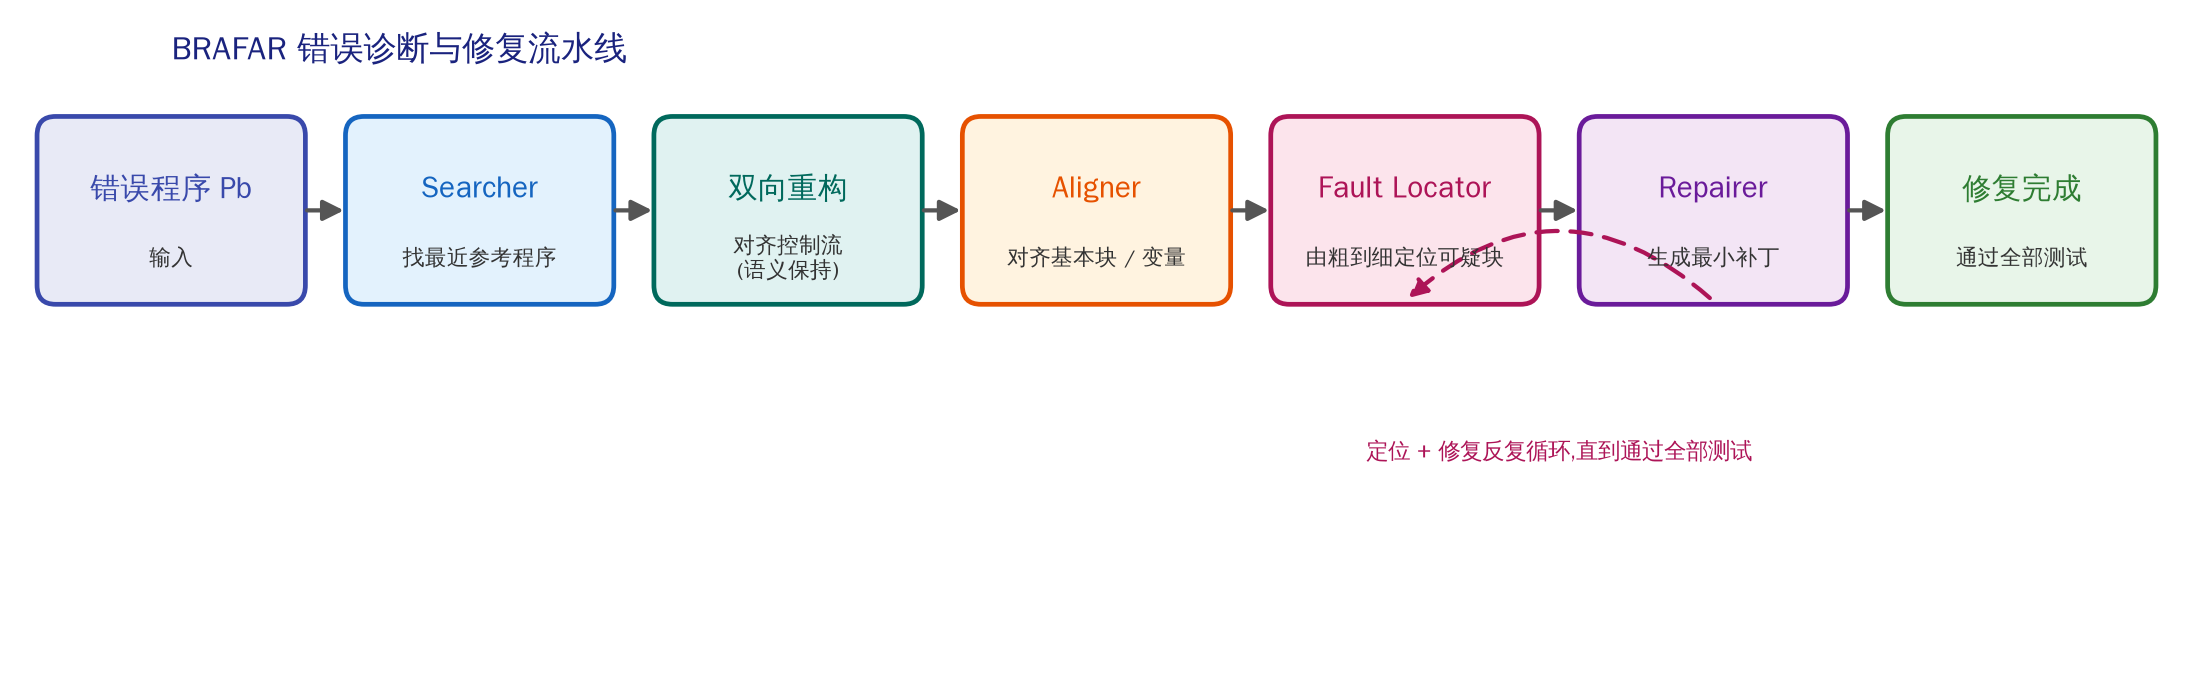
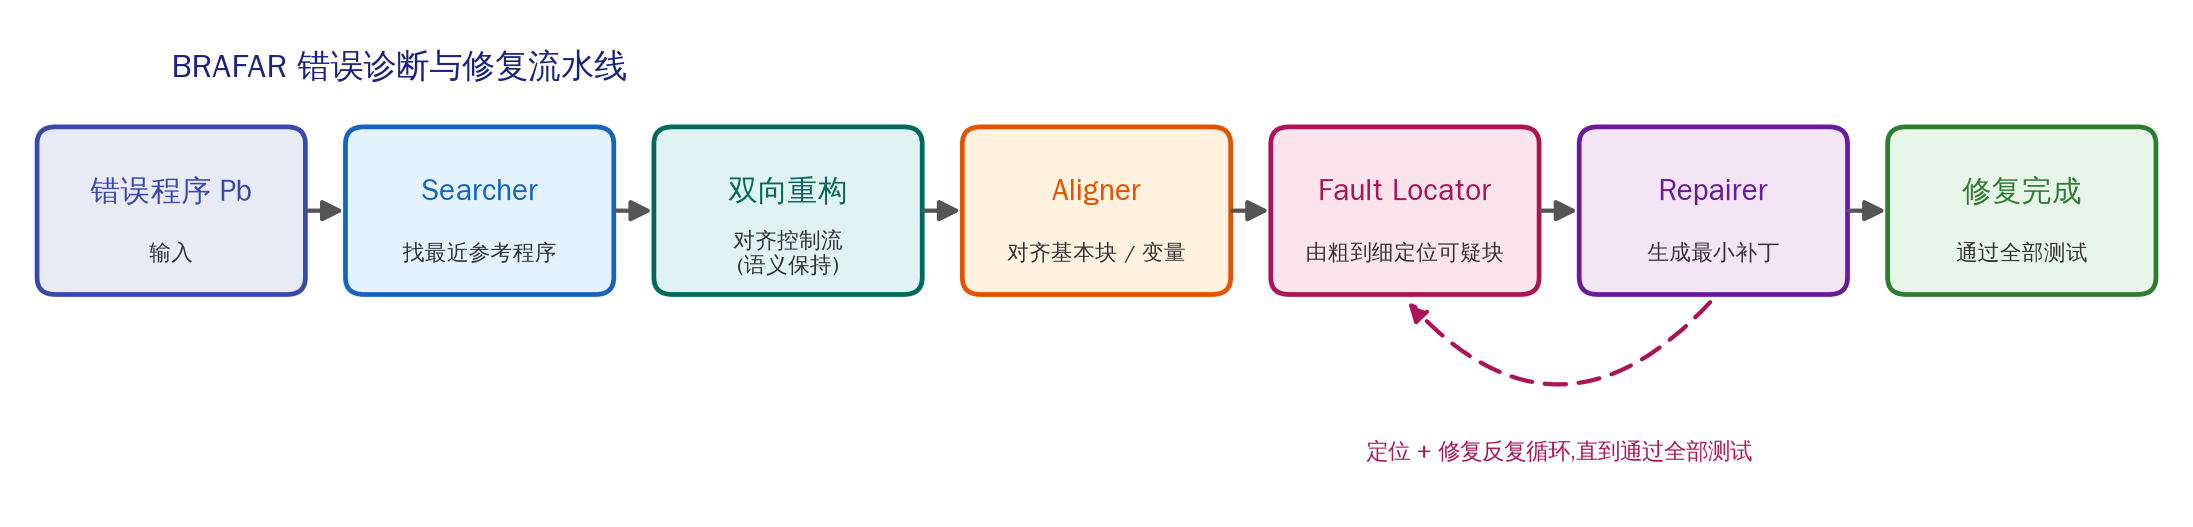
修复流水线图:循环箭头改为向下绕行,不再穿过方框;压缩底部留白
Claude-Session: https://claude.ai/code/session_01DdshGqeShUeA8BratNsThU

diff --git a/demo/make_pipeline_figure.py b/demo/make_pipeline_figure.py
@@ -24,9 +24,9 @@ steps = [
     ("修复完成", "通过全部测试", "#E8F5E9", "#2E7D32"),
 ]
 
-fig, ax = plt.subplots(figsize=(13, 4.2), dpi=170)
+fig, ax = plt.subplots(figsize=(13, 3.2), dpi=170)
 ax.set_xlim(0, len(steps) * 2.0)
-ax.set_ylim(0, 4.2)
+ax.set_ylim(0.85, 4.35)
 ax.axis("off")
 
 box_w, box_h, y = 1.7, 1.15, 2.4
@@ -50,15 +50,15 @@ for i, (title, sub, fill, edge) in enumerate(steps):
             arrowstyle="-|>", mutation_scale=18,
             linewidth=1.8, color="#555555"))
 
-# "定位 + 修复"循环回线:从 Repairer 底部回到 Fault Locator 底部
+# "定位 + 修复"循环回线:从 Repairer 底部向下绕行,回到 Fault Locator 底部
 fl_cx, rp_cx = centers[4], centers[5]
 ax.add_patch(FancyArrowPatch(
-    (rp_cx, y), (fl_cx, y),
-    connectionstyle="arc3,rad=0.45", arrowstyle="-|>",
+    (rp_cx, y - 0.05), (fl_cx, y - 0.05),
+    connectionstyle="arc3,rad=-0.55", arrowstyle="-|>",
     mutation_scale=16, linewidth=1.8, color="#AD1457", linestyle=(0, (5, 3))))
-ax.text((fl_cx + rp_cx) / 2, y - 0.95,
+ax.text((fl_cx + rp_cx) / 2, y - 1.05,
         "定位 + 修复反复循环,直到通过全部测试",
-        ha="center", va="center", fontproperties=zh,
+        ha="center", va="top", fontproperties=zh,
         fontsize=9.5, color="#AD1457")
 
 ax.text(centers[0], y + box_h + 0.45,
